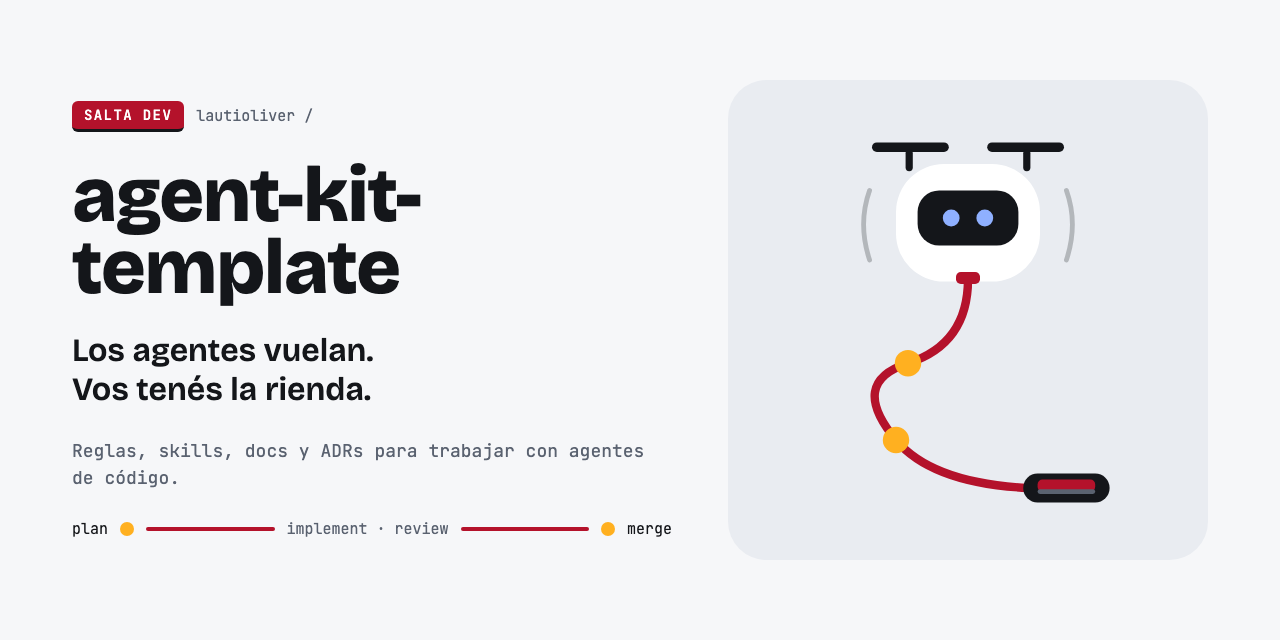
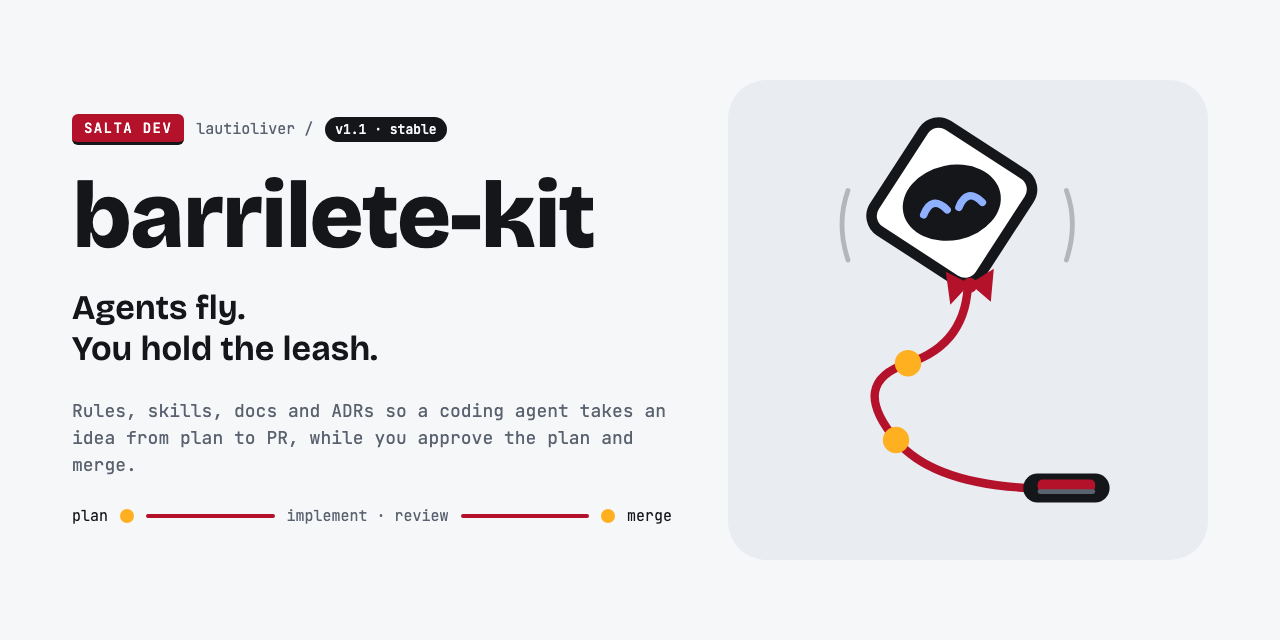
docs: actualizar la social preview a barrilete-kit v1.1

diff --git a/.github/brand/social-preview.html b/.github/brand/social-preview.html
@@ -1,9 +1,9 @@
 <!DOCTYPE html>
-<!-- Fuente de social-preview.png. Para regenerarla: abrir en un navegador a 1280×640 y capturar,
-     o: chrome --headless --screenshot=social-preview.png --window-size=1280,640 social-preview.html -->
-<html lang="es"><head>
+<!-- Source of social-preview.png. To regenerate it: open it in a browser at 1280×640 and capture,
+     or: chrome --headless --screenshot=social-preview.png --window-size=1280,640 social-preview.html -->
+<html lang="en"><head>
 <meta charset="utf-8">
-<title>Social preview de agent-kit-template</title>
+<title>barrilete-kit social preview</title>
 <link href="https://fonts.googleapis.com/css2?family=Bricolage+Grotesque:wght@600;800&amp;family=JetBrains+Mono:wght@400;500&amp;display=block" rel="stylesheet">
 <style>body{margin:0}</style>
 </head>
@@ -13,10 +13,11 @@
 <div style="display: flex; gap: 12px; align-items: center;">
 <div style="font-size: 14px; font-weight: 500; letter-spacing: 0.1em; color: #FFFFFF; background: #B4122B; border-bottom: 3px solid #14161A; padding: 5px 12px; border-radius: 6px;">SALTA DEV</div>
 <div style="font-size: 15px; color: #5A6270;">lautioliver /</div>
+<div style="font-size: 13px; font-weight: 500; color: #F6F7F9; background: #14161A; padding: 4px 10px; border-radius: 999px;">v1.1 · stable</div>
 </div>
-<h1 style="margin: 0; font-family: 'Bricolage Grotesque', sans-serif; font-weight: 800; font-size: 76px; line-height: 0.95; letter-spacing: -0.02em;">agent-kit-template</h1>
-<p style="margin: 0; font-family: 'Bricolage Grotesque', sans-serif; font-weight: 600; font-size: 32px; line-height: 1.2;">Los agentes vuelan.<br>Vos tenés la rienda.</p>
-<p style="margin: 0; font-size: 18px; line-height: 1.5; color: #5A6270;">Reglas, skills, docs y ADRs para trabajar con agentes de código.</p>
+<h1 style="margin: 0; font-family: 'Bricolage Grotesque', sans-serif; font-weight: 800; font-size: 92px; line-height: 0.95; letter-spacing: -0.02em;">barrilete-kit</h1>
+<p style="margin: 0; font-family: 'Bricolage Grotesque', sans-serif; font-weight: 600; font-size: 34px; line-height: 1.2;">Agents fly.<br>You hold the leash.</p>
+<p style="margin: 0; font-size: 18px; line-height: 1.5; color: #5A6270;">Rules, skills, docs and ADRs so a coding agent takes an idea from plan to PR, while you approve the plan and merge.</p>
 <div style="display: flex; align-items: center; gap: 12px; font-size: 15px; color: #14161A;">
 <span>plan</span>
 <span style="width: 14px; height: 14px; border-radius: 50%; background: #FFB020;"></span>
@@ -28,7 +29,7 @@
 </div>
 </div>
 <div style="width: 480px; height: 480px; flex: 0 0 480px;">
-<svg xmlns="http://www.w3.org/2000/svg" viewBox="0 0 400 400" width="480" height="480" role="img" aria-label="Barrilete, un dron robot atado a una correa con dos nudos que termina en un mango">
+<svg xmlns="http://www.w3.org/2000/svg" viewBox="0 0 400 400" width="480" height="480" role="img" aria-label="Barrilete, a kite tied to a leash with two knots that ends in a handle">
 <rect width="400" height="400" rx="32" fill="#E9ECF1"/>
 <path d="M200 166 Q200 220 150 236 Q100 252 140 300 Q170 336 250 340" stroke="#B4122B" stroke-width="7" fill="none" stroke-linecap="round"/>
 <circle cx="150" cy="236" r="11" fill="#FFB020"/>
@@ -36,16 +37,8 @@
 <rect x="246" y="328" width="72" height="24" rx="12" fill="#14161A"/>
 <rect x="258" y="333" width="48" height="10" rx="4" fill="#B4122B"/>
 <rect x="258" y="341" width="48" height="4" rx="2" fill="#5A6270"/>
-<rect x="120" y="52" width="64" height="8" rx="4" fill="#14161A"/>
-<rect x="216" y="52" width="64" height="8" rx="4" fill="#14161A"/>
-<rect x="148" y="58" width="6" height="18" rx="3" fill="#14161A"/>
-<rect x="246" y="58" width="6" height="18" rx="3" fill="#14161A"/>
-<rect x="140" y="70" width="120" height="98" rx="40" fill="#FFFFFF"/>
-<rect x="158" y="92" width="84" height="46" rx="18" fill="#14161A"/>
-<circle cx="186" cy="115" r="7" fill="#8FB0FF"/>
-<circle cx="214" cy="115" r="7" fill="#8FB0FF"/>
-<rect x="190" y="160" width="20" height="10" rx="4" fill="#B4122B"/>
-<path d="M118 150 Q108 120 118 92" stroke="#14161A" stroke-width="4" fill="none" stroke-linecap="round" opacity="0.25"/>
+<g transform="translate(86.5 22.25) scale(1.25)"><g transform="rotate(-12 80 64)"><rect x="38" y="22" width="84" height="84" rx="12" transform="rotate(45 80 64)" fill="#FFFFFF" stroke="#14161A" stroke-width="7"/><ellipse cx="80" cy="64" rx="33" ry="25" fill="#14161A"/><path d="M60 68 Q68 56 76 68 M84 68 Q92 56 100 68" stroke="#8FB0FF" stroke-width="5" fill="none" stroke-linecap="round"/></g><path d="M92 118 L76 110 L79 132 Z M92 118 L108 108 L106 130 Z" fill="#B4122B"/><circle cx="92" cy="119" r="5" fill="#B4122B"/></g>
+<path d="M100 150 Q90 120 100 92" stroke="#14161A" stroke-width="4" fill="none" stroke-linecap="round" opacity="0.25"/>
 <path d="M282 150 Q292 120 282 92" stroke="#14161A" stroke-width="4" fill="none" stroke-linecap="round" opacity="0.25"/>
 </svg>
 </div>
